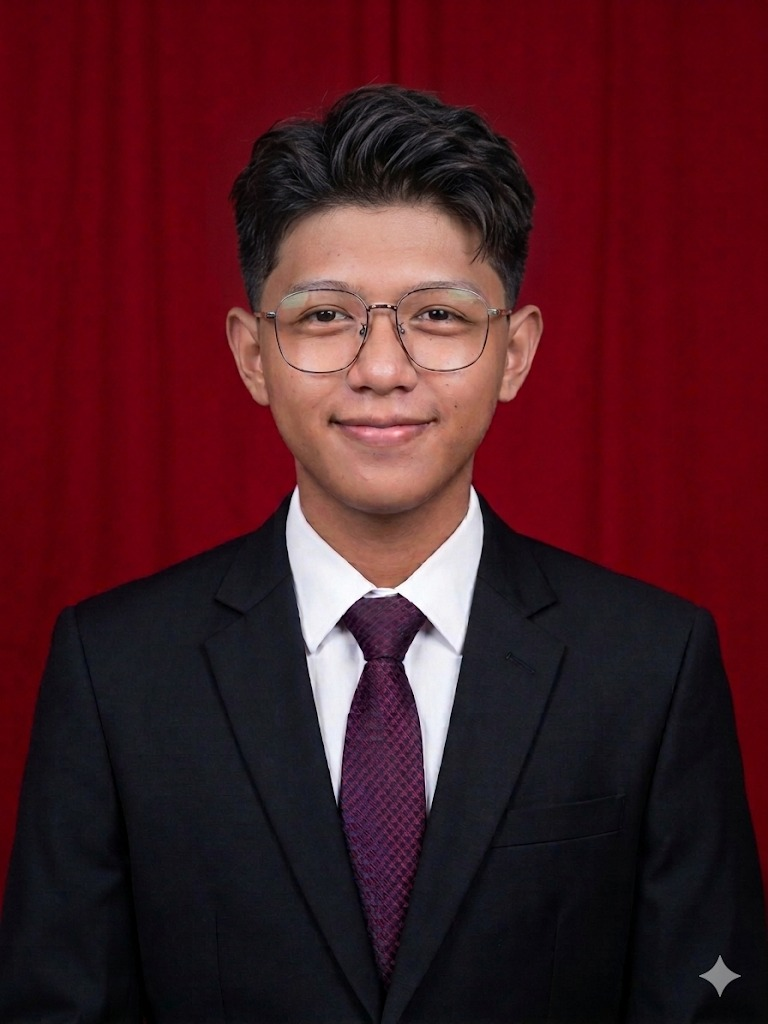
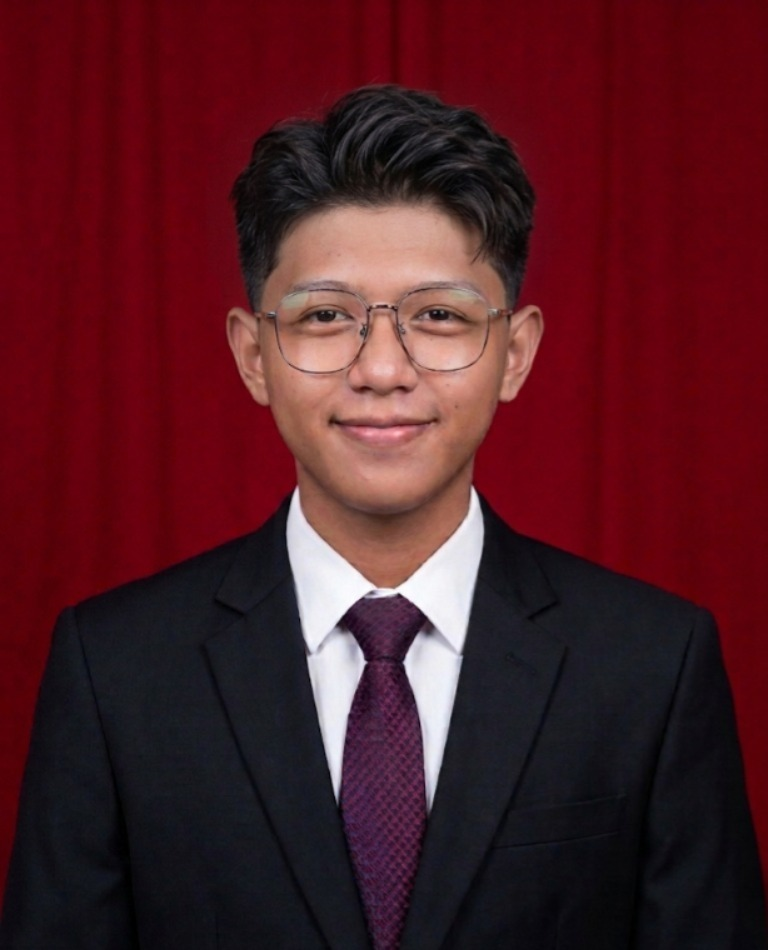
penambahan eloquent relation untuk appPortofolio & view yang masih raw belum ada css tapi untuk data sudah mengambil dari database

diff --git a/resources/views/pages/CV.blade.php b/resources/views/pages/CV.blade.php
@@ -43,19 +43,19 @@
         </div>
     </section>
 
-    <!-- EDUCATION -->
+    <!-- EXPERIENCE(education) -->
     <section>
         <div>
 
             <h2>
-                {{ $texts['education_title'] ?? $experiences->firstWhere('name', 'education')?->content ?? 'Pendidikan' }}
+                {{ $texts['experience_title'] ?? $experiences->firstWhere('name', 'experience')?->content ?? 'Pendidikan' }}
             </h2>
 
             <div>
-                @forelse($education as $edu)
+                @forelse($experiences as $exp)
                     <div>
-                        <h3>{{ $edu->name }}</h3>
-                        <p>{{ $edu->value }}</p>
+                        <h3>{{ $exp->name }}</h3>
+                        <p>{{ $exp->start_year }} - {{ $exp->end_year }}</p>
                     </div>
                 @empty
                     <p>Tidak ada data pendidikan.</p>
@@ -76,7 +76,7 @@
             <div>
                 @forelse($portofolio as $project)
                     <div>
-                        <h3>{{ $project->name }}</h3>
+                        <h3>{{ $project->nama }}</h3>
                         <p>{!! $project->value ?? $project->content ?? '' !!}</p>
                     </div>
                 @empty
@@ -96,19 +96,17 @@
             </h2>
 
             <div>
-                @if(isset($texts['email']))
-                    <p>Email : {{ $texts['email'] }}</p>
+                @if(isset($user['email']))
+                    <p>Email : {{ $user['email'] }}</p>
                 @else
                     <p>Email : {{ $texts['sidebar_email'] ?? '' }}</p>
                 @endif
 
-                @if(isset($texts['phone']))
-                    <p>WhatsApp : {{ $texts['phone'] }}</p>
+                @if($sosmed->isNotEmpty())
+                    <p>Instagram : {{ $sosmed->first()->name }}</p>
                 @else
-                    <p>WhatsApp : {{ $texts['sidebar_phone'] ?? '-' }}</p>
+                    <p>Instagram : {{ $texts['sidebar_instagram'] ?? '-' }}</p>
                 @endif
-
-                <p>GitHub : {{ $texts['sidebar_github'] ?? ($socials->first()?->value ?? '') }}</p>
             </div>
 
         </div>

diff --git a/app/Models/appPortofolio.php b/app/Models/appPortofolio.php
@@ -15,4 +15,9 @@ class appPortofolio extends Model
         'nama',
         'gambar',
     ];
+
+        public function kategori()
+    {
+        return $this->belongsTo(appPortofolioKategori::class, 'id_kategori');
+    }
 }
